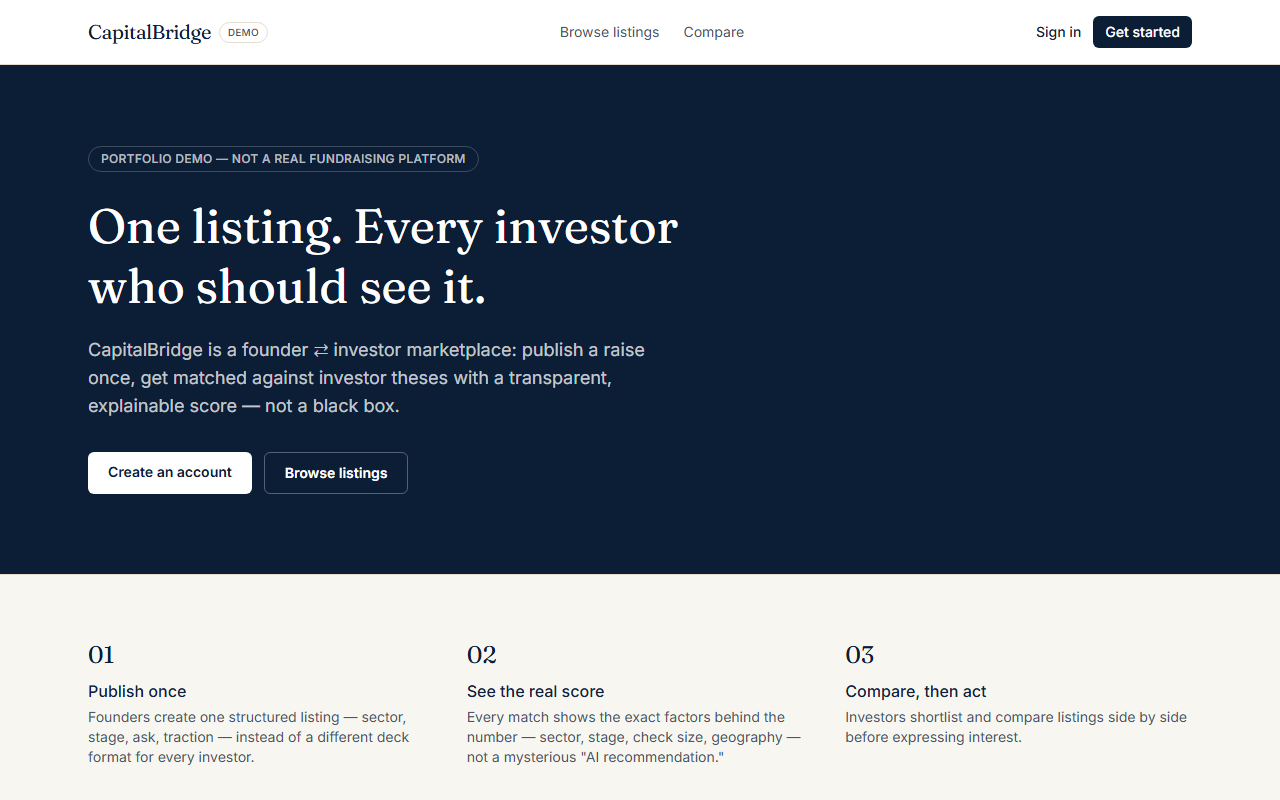
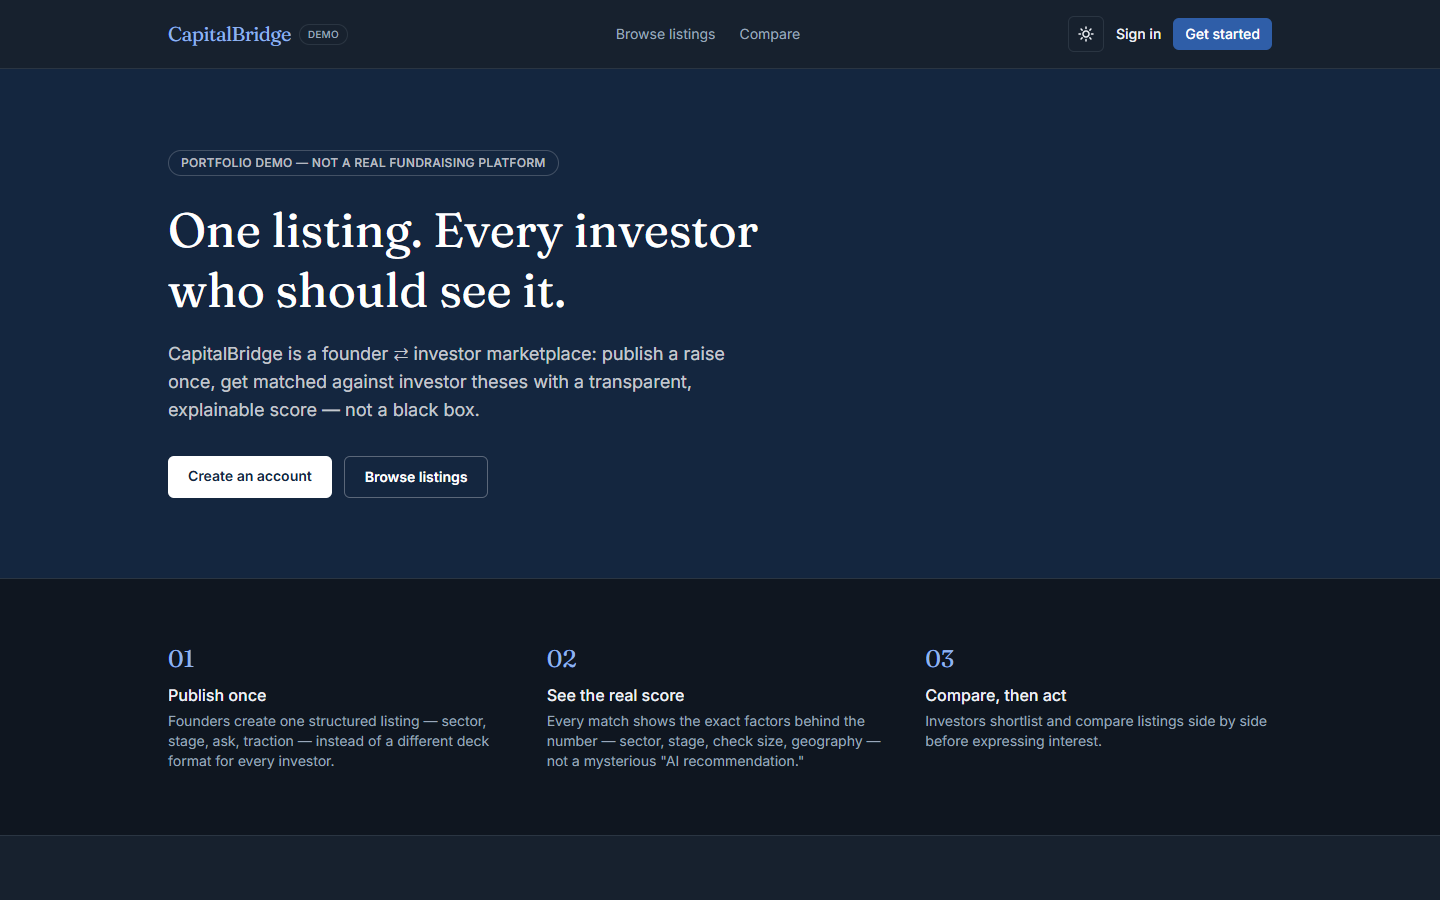
feat(ui): add a dark theme with a header toggle
Colors were already CSS variables in globals.css; add a [data-theme=dark]
override. An inline script in layout.tsx applies the stored choice (or the
OS preference) before first paint, so there is no light flash.

Navy was used both as text and as a button fill. In dark mode those need
different blues, so fills now use a new --color-navy-fill token and the
landing hero uses --color-hero. Inputs use --color-paper-raised instead of
hard-coded white, and the chart tooltip takes theme colors.

The toggle sits in the header on desktop and in the mobile menu on phones,
where the header row has no room for it. README screenshots are
recaptured in the dark theme.

diff --git a/src/app/signup/page.tsx b/src/app/signup/page.tsx
@@ -25,7 +25,7 @@ export default function SignupPage() {
               key={r}
               className={`cursor-pointer rounded-md border px-3 py-2 text-center text-sm font-medium transition ${
                 role === r
-                  ? "border-[var(--color-navy)] bg-[var(--color-navy)] text-white"
+                  ? "border-[var(--color-navy-fill)] bg-[var(--color-navy-fill)] text-white"
                   : "border-[var(--color-border)] text-[var(--color-ink)]"
               }`}
             >
@@ -50,7 +50,7 @@ export default function SignupPage() {
             id="name"
             name="name"
             required
-            className="mt-1 w-full rounded-md border border-[var(--color-border)] bg-white px-3 py-2 text-sm outline-none focus:border-[var(--color-navy)]"
+            className="mt-1 w-full rounded-md border border-[var(--color-border)] bg-[var(--color-paper-raised)] px-3 py-2 text-sm outline-none focus:border-[var(--color-navy)]"
           />
         </div>
         <div>
@@ -62,7 +62,7 @@ export default function SignupPage() {
             name="email"
             type="email"
             required
-            className="mt-1 w-full rounded-md border border-[var(--color-border)] bg-white px-3 py-2 text-sm outline-none focus:border-[var(--color-navy)]"
+            className="mt-1 w-full rounded-md border border-[var(--color-border)] bg-[var(--color-paper-raised)] px-3 py-2 text-sm outline-none focus:border-[var(--color-navy)]"
           />
         </div>
         <div>
@@ -75,7 +75,7 @@ export default function SignupPage() {
             type="password"
             required
             minLength={8}
-            className="mt-1 w-full rounded-md border border-[var(--color-border)] bg-white px-3 py-2 text-sm outline-none focus:border-[var(--color-navy)]"
+            className="mt-1 w-full rounded-md border border-[var(--color-border)] bg-[var(--color-paper-raised)] px-3 py-2 text-sm outline-none focus:border-[var(--color-navy)]"
           />
           <p className="mt-1 text-xs text-[var(--color-ink-muted)]">At least 8 characters.</p>
         </div>
@@ -83,7 +83,7 @@ export default function SignupPage() {
         <button
           type="submit"
           disabled={pending}
-          className="w-full rounded-md bg-[var(--color-navy)] px-4 py-2.5 text-sm font-semibold text-white transition hover:bg-[var(--color-navy-soft)] disabled:opacity-60"
+          className="w-full rounded-md bg-[var(--color-navy-fill)] px-4 py-2.5 text-sm font-semibold text-white transition hover:bg-[var(--color-navy-soft)] disabled:opacity-60"
         >
           {pending ? "Creating account…" : "Create account"}
         </button>

diff --git a/src/app/listings/page.tsx b/src/app/listings/page.tsx
@@ -80,9 +80,9 @@ export default async function ListingsPage({
           name="q"
           defaultValue={params.q ?? ""}
           placeholder="Search company or keyword"
-          className="rounded-md border border-[var(--color-border)] bg-white px-3 py-2 text-sm outline-none focus:border-[var(--color-navy)] sm:col-span-2"
+          className="rounded-md border border-[var(--color-border)] bg-[var(--color-paper-raised)] px-3 py-2 text-sm outline-none focus:border-[var(--color-navy)] sm:col-span-2"
         />
-        <select name="sector" defaultValue={params.sector ?? ""} className="rounded-md border border-[var(--color-border)] bg-white px-3 py-2 text-sm">
+        <select name="sector" defaultValue={params.sector ?? ""} className="rounded-md border border-[var(--color-border)] bg-[var(--color-paper-raised)] px-3 py-2 text-sm">
           <option value="">All sectors</option>
           {SECTOR_TIER1.map((s) => (
             <option key={s} value={s}>
@@ -90,7 +90,7 @@ export default async function ListingsPage({
             </option>
           ))}
         </select>
-        <select name="stage" defaultValue={params.stage ?? ""} className="rounded-md border border-[var(--color-border)] bg-white px-3 py-2 text-sm">
+        <select name="stage" defaultValue={params.stage ?? ""} className="rounded-md border border-[var(--color-border)] bg-[var(--color-paper-raised)] px-3 py-2 text-sm">
           <option value="">All stages</option>
           {STAGES.map((s) => (
             <option key={s.value} value={s.value}>
@@ -98,7 +98,7 @@ export default async function ListingsPage({
             </option>
           ))}
         </select>
-        <select name="geography" defaultValue={params.geography ?? ""} className="rounded-md border border-[var(--color-border)] bg-white px-3 py-2 text-sm">
+        <select name="geography" defaultValue={params.geography ?? ""} className="rounded-md border border-[var(--color-border)] bg-[var(--color-paper-raised)] px-3 py-2 text-sm">
           <option value="">All geographies</option>
           {GEOGRAPHIES.map((g) => (
             <option key={g} value={g}>
@@ -107,7 +107,7 @@ export default async function ListingsPage({
           ))}
         </select>
         <div className="flex gap-2 sm:col-span-5">
-          <button type="submit" className="rounded-md bg-[var(--color-navy)] px-4 py-2 text-sm font-semibold text-white hover:bg-[var(--color-navy-soft)]">
+          <button type="submit" className="rounded-md bg-[var(--color-navy-fill)] px-4 py-2 text-sm font-semibold text-white hover:bg-[var(--color-navy-soft)]">
             Apply filters
           </button>
           {activeFilterCount > 0 && (

diff --git a/src/components/theme-toggle.tsx b/src/components/theme-toggle.tsx
@@ -1,0 +1,58 @@
+"use client";
+
+import { useEffect, useState } from "react";
+import { THEME_STORAGE_KEY } from "@/lib/theme";
+
+type Theme = "light" | "dark";
+
+export function ThemeToggle() {
+  // null until mounted: the server can't know the theme, so render a
+  // neutral placeholder instead of guessing and causing a hydration mismatch.
+  const [theme, setTheme] = useState<Theme | null>(null);
+
+  useEffect(() => {
+    // Deliberately reading in an effect: the real theme was already applied
+    // to <html> by the inline script, before React hydrated.
+    // eslint-disable-next-line react-hooks/set-state-in-effect
+    setTheme(document.documentElement.dataset.theme === "dark" ? "dark" : "light");
+  }, []);
+
+  function toggle() {
+    const next: Theme = theme === "dark" ? "light" : "dark";
+    document.documentElement.dataset.theme = next;
+    try {
+      localStorage.setItem(THEME_STORAGE_KEY, next);
+    } catch {
+      // Storage can be unavailable (private mode); the toggle still works for this page view.
+    }
+    setTheme(next);
+  }
+
+  const label = theme === "dark" ? "Switch to light theme" : "Switch to dark theme";
+
+  return (
+    <button
+      type="button"
+      onClick={toggle}
+      aria-label={label}
+      title={label}
+      className="flex h-9 w-9 items-center justify-center rounded-md border border-[var(--color-border)] text-[var(--color-ink)] transition hover:border-[var(--color-navy)]"
+    >
+      {theme === "dark" ? (
+        <svg width="16" height="16" viewBox="0 0 16 16" fill="none" aria-hidden="true">
+          <circle cx="8" cy="8" r="3" stroke="currentColor" strokeWidth="1.5" />
+          <path
+            d="M8 1v1.5M8 13.5V15M1 8h1.5M13.5 8H15M3.05 3.05l1.06 1.06M11.89 11.89l1.06 1.06M3.05 12.95l1.06-1.06M11.89 4.11l1.06-1.06"
+            stroke="currentColor"
+            strokeWidth="1.5"
+            strokeLinecap="round"
+          />
+        </svg>
+      ) : (
+        <svg width="16" height="16" viewBox="0 0 16 16" fill="none" aria-hidden="true">
+          <path d="M13.5 9.5A5.5 5.5 0 0 1 6.5 2.5a5.5 5.5 0 1 0 7 7z" stroke="currentColor" strokeWidth="1.5" strokeLinejoin="round" />
+        </svg>
+      )}
+    </button>
+  );
+}

diff --git a/src/app/listings/new/page.tsx b/src/app/listings/new/page.tsx
@@ -6,7 +6,7 @@ import { SECTOR_TIER1, SECTOR_TIER2, STAGES, RAISE_TYPES, GEOGRAPHIES, type Sect
 import { FormError } from "@/components/ui";
 
 const inputClass =
-  "mt-1 w-full rounded-md border border-[var(--color-border)] bg-white px-3 py-2 text-sm outline-none focus:border-[var(--color-navy)]";
+  "mt-1 w-full rounded-md border border-[var(--color-border)] bg-[var(--color-paper-raised)] px-3 py-2 text-sm outline-none focus:border-[var(--color-navy)]";
 const labelClass = "text-sm font-medium text-[var(--color-ink)]";
 
 export default function NewListingPage() {
@@ -86,7 +86,7 @@ export default function NewListingPage() {
             {SECTOR_TIER2[tier1].map((tag) => (
               <label
                 key={tag}
-                className="flex cursor-pointer items-center gap-1.5 rounded-full border border-[var(--color-border)] px-3 py-1 text-xs has-[:checked]:border-[var(--color-navy)] has-[:checked]:bg-[var(--color-navy)] has-[:checked]:text-white"
+                className="flex cursor-pointer items-center gap-1.5 rounded-full border border-[var(--color-border)] px-3 py-1 text-xs has-[:checked]:border-[var(--color-navy-fill)] has-[:checked]:bg-[var(--color-navy-fill)] has-[:checked]:text-white"
               >
                 <input type="checkbox" name="sectorTier2" value={tag} className="sr-only" />
                 {tag}
@@ -162,7 +162,7 @@ export default function NewListingPage() {
           <button
             type="submit"
             onClick={() => setIntent("publish")}
-            className="rounded-md bg-[var(--color-navy)] px-4 py-2.5 text-sm font-semibold text-white hover:bg-[var(--color-navy-soft)]"
+            className="rounded-md bg-[var(--color-navy-fill)] px-4 py-2.5 text-sm font-semibold text-white hover:bg-[var(--color-navy-soft)]"
           >
             Publish listing
           </button>

diff --git a/src/app/login/page.tsx b/src/app/login/page.tsx
@@ -29,7 +29,7 @@ export default function LoginPage() {
               name="email"
               type="email"
               required
-              className="mt-1 w-full rounded-md border border-[var(--color-border)] bg-white px-3 py-2 text-sm outline-none focus:border-[var(--color-navy)]"
+              className="mt-1 w-full rounded-md border border-[var(--color-border)] bg-[var(--color-paper-raised)] px-3 py-2 text-sm outline-none focus:border-[var(--color-navy)]"
             />
           </div>
           <div>
@@ -41,13 +41,13 @@ export default function LoginPage() {
               name="password"
               type="password"
               required
-              className="mt-1 w-full rounded-md border border-[var(--color-border)] bg-white px-3 py-2 text-sm outline-none focus:border-[var(--color-navy)]"
+              className="mt-1 w-full rounded-md border border-[var(--color-border)] bg-[var(--color-paper-raised)] px-3 py-2 text-sm outline-none focus:border-[var(--color-navy)]"
             />
           </div>
           <button
             type="submit"
             disabled={pending}
-            className="w-full rounded-md bg-[var(--color-navy)] px-4 py-2.5 text-sm font-semibold text-white transition hover:bg-[var(--color-navy-soft)] disabled:opacity-60"
+            className="w-full rounded-md bg-[var(--color-navy-fill)] px-4 py-2.5 text-sm font-semibold text-white transition hover:bg-[var(--color-navy-soft)] disabled:opacity-60"
           >
             {pending ? "Signing in…" : "Sign in"}
           </button>

diff --git a/src/components/investor-profile-form.tsx b/src/components/investor-profile-form.tsx
@@ -15,9 +15,9 @@ export type InvestorProfileFormValues = {
 };
 
 const chipClass =
-  "flex cursor-pointer items-center gap-1.5 rounded-full border border-[var(--color-border)] px-3 py-1 text-xs has-[:checked]:border-[var(--color-navy)] has-[:checked]:bg-[var(--color-navy)] has-[:checked]:text-white";
+  "flex cursor-pointer items-center gap-1.5 rounded-full border border-[var(--color-border)] px-3 py-1 text-xs has-[:checked]:border-[var(--color-navy-fill)] has-[:checked]:bg-[var(--color-navy-fill)] has-[:checked]:text-white";
 const inputClass =
-  "mt-1 w-full rounded-md border border-[var(--color-border)] bg-white px-3 py-2 text-sm outline-none focus:border-[var(--color-navy)]";
+  "mt-1 w-full rounded-md border border-[var(--color-border)] bg-[var(--color-paper-raised)] px-3 py-2 text-sm outline-none focus:border-[var(--color-navy)]";
 
 export function InvestorProfileForm({ initial, welcome }: { initial: InvestorProfileFormValues; welcome?: boolean }) {
   const [state, formAction] = useActionState(updateInvestorProfileAction, undefined);
@@ -108,7 +108,7 @@ export function InvestorProfileForm({ initial, welcome }: { initial: InvestorPro
         </div>
       </div>
 
-      <button type="submit" className="rounded-md bg-[var(--color-navy)] px-4 py-2.5 text-sm font-semibold text-white hover:bg-[var(--color-navy-soft)]">
+      <button type="submit" className="rounded-md bg-[var(--color-navy-fill)] px-4 py-2.5 text-sm font-semibold text-white hover:bg-[var(--color-navy-soft)]">
         Save profile
       </button>
     </form>

diff --git a/src/app/globals.css b/src/app/globals.css
@@ -25,6 +25,36 @@
   --color-rose: #9c3b3b;
   --color-rose-soft: #f4e3e1;
   --color-slate-soft: #eceef2;
+  /* Navy is both an ink and a fill. In light mode they're the same color;
+     in dark mode text needs a light blue but filled buttons need a blue
+     that still carries white text, so fills get their own token. */
+  --color-navy-fill: #0b1e36;
+  --color-hero: #0b1e36;
+}
+
+/*
+  Dark theme: same identity on a deep blue-black "night paper". Set by the
+  inline script in layout.tsx (stored choice, else the OS preference) before
+  first paint, so there's no light flash.
+*/
+:root[data-theme="dark"] {
+  color-scheme: dark;
+  --color-paper: #0f1620;
+  --color-paper-raised: #17212e;
+  --color-ink: #eef1f6;
+  --color-ink-muted: #9aa7ba;
+  --color-navy: #8fb3ee;
+  --color-navy-soft: #3d6fbf;
+  --color-navy-fill: #2f5ea8;
+  --color-hero: #14263f;
+  --color-border: #2a3542;
+  --color-emerald: #4fcf9e;
+  --color-emerald-soft: #163229;
+  --color-amber: #e0ab52;
+  --color-amber-soft: #33280f;
+  --color-rose: #e08585;
+  --color-rose-soft: #3a2020;
+  --color-slate-soft: #202a37;
 }
 
 @theme inline {
@@ -42,6 +72,8 @@
   --color-rose: var(--color-rose);
   --color-rose-soft: var(--color-rose-soft);
   --color-slate-soft: var(--color-slate-soft);
+  --color-navy-fill: var(--color-navy-fill);
+  --color-hero: var(--color-hero);
   --font-display: var(--font-fraunces);
   --font-sans: var(--font-inter);
 }

diff --git a/src/components/site-header.tsx b/src/components/site-header.tsx
@@ -2,6 +2,7 @@ import Link from "next/link";
 import { getSession } from "@/lib/auth";
 import { logoutAction } from "@/lib/actions/auth";
 import { MobileNav } from "@/components/mobile-nav";
+import { ThemeToggle } from "@/components/theme-toggle";
 
 const NAV_LINKS = [{ href: "/listings", label: "Browse listings" }, { href: "/compare", label: "Compare" }];
 
@@ -44,6 +45,10 @@ export async function SiteHeader() {
         </nav>
 
         <div className="flex items-center gap-3 text-sm">
+          {/* On phones the header row is already full; the toggle lives in the mobile menu there. */}
+          <div className="hidden md:block">
+            <ThemeToggle />
+          </div>
           {session ? (
             <>
               <span className="hidden text-[var(--color-ink-muted)] sm:inline">
@@ -65,7 +70,7 @@ export async function SiteHeader() {
               </Link>
               <Link
                 href="/signup"
-                className="rounded-md bg-[var(--color-navy)] px-3 py-1.5 font-medium text-white transition hover:bg-[var(--color-navy-soft)]"
+                className="rounded-md bg-[var(--color-navy-fill)] px-3 py-1.5 font-medium text-white transition hover:bg-[var(--color-navy-soft)]"
               >
                 Get started
               </Link>

diff --git a/src/app/dashboard/founder/page.tsx b/src/app/dashboard/founder/page.tsx
@@ -48,7 +48,7 @@ export default async function FounderDashboardPage() {
             Views and interest below are real counts from this database, not seeded numbers.
           </p>
         </div>
-        <Link href="/listings/new" className="rounded-md bg-[var(--color-navy)] px-4 py-2 text-sm font-semibold text-white hover:bg-[var(--color-navy-soft)]">
+        <Link href="/listings/new" className="rounded-md bg-[var(--color-navy-fill)] px-4 py-2 text-sm font-semibold text-white hover:bg-[var(--color-navy-soft)]">
           New listing
         </Link>
       </div>
@@ -76,7 +76,7 @@ export default async function FounderDashboardPage() {
               title="No listings yet"
               description="Publish your first raise to start appearing in investor searches and match feeds."
               action={
-                <Link href="/listings/new" className="rounded-md bg-[var(--color-navy)] px-4 py-2 text-sm font-semibold text-white">
+                <Link href="/listings/new" className="rounded-md bg-[var(--color-navy-fill)] px-4 py-2 text-sm font-semibold text-white">
                   Create a listing
                 </Link>
               }

diff --git a/src/app/layout.tsx b/src/app/layout.tsx
@@ -2,6 +2,7 @@ import type { Metadata } from "next";
 import { Fraunces, Inter } from "next/font/google";
 import { SiteHeader } from "@/components/site-header";
 import { SiteFooter } from "@/components/site-footer";
+import { themeInitScript } from "@/lib/theme";
 import "./globals.css";
 
 const fraunces = Fraunces({
@@ -23,7 +24,12 @@ export const metadata: Metadata = {
 
 export default function RootLayout({ children }: LayoutProps<"/">) {
   return (
-    <html lang="en" className={`${fraunces.variable} ${inter.variable} h-full antialiased`}>
+    // suppressHydrationWarning: the inline theme script sets data-theme on
+    // <html> before React hydrates, which React would otherwise flag.
+    <html lang="en" className={`${fraunces.variable} ${inter.variable} h-full antialiased`} suppressHydrationWarning>
+      <head>
+        <script dangerouslySetInnerHTML={{ __html: themeInitScript }} />
+      </head>
       <body className="flex min-h-full flex-col bg-[var(--color-paper)] text-[var(--color-ink)]">
         <SiteHeader />
         <main className="flex-1">{children}</main>

diff --git a/src/app/page.tsx b/src/app/page.tsx
@@ -12,7 +12,7 @@ export default async function HomePage() {
 
   return (
     <div>
-      <section className="border-b border-[var(--color-border)] bg-[var(--color-navy)] text-white">
+      <section className="border-b border-[var(--color-border)] bg-[var(--color-hero)] text-white">
         <div className="mx-auto max-w-6xl px-6 py-20">
           <span className="inline-flex items-center rounded-full border border-white/20 px-3 py-1 text-xs font-medium uppercase tracking-wide text-white/70">
             Portfolio demo — not a real fundraising platform
@@ -27,7 +27,7 @@ export default async function HomePage() {
           <div className="mt-8 flex flex-wrap gap-3">
             <Link
               href="/signup"
-              className="rounded-md bg-white px-5 py-2.5 text-sm font-semibold text-[var(--color-navy)] transition hover:bg-white/90"
+              className="rounded-md bg-white px-5 py-2.5 text-sm font-semibold text-[var(--color-hero)] transition hover:bg-white/90"
             >
               Create an account
             </Link>

diff --git a/src/app/compare/page.tsx b/src/app/compare/page.tsx
@@ -46,7 +46,7 @@ export default async function ComparePage({
             key={i}
             name={`slot${i}`}
             defaultValue={params[`slot${i}`] ?? ""}
-            className="rounded-md border border-[var(--color-border)] bg-white px-3 py-2 text-sm"
+            className="rounded-md border border-[var(--color-border)] bg-[var(--color-paper-raised)] px-3 py-2 text-sm"
           >
             <option value="">Slot {i + 1}: choose a listing</option>
             {allListings.map((l) => (
@@ -56,7 +56,7 @@ export default async function ComparePage({
             ))}
           </select>
         ))}
-        <button type="submit" className="rounded-md bg-[var(--color-navy)] px-4 py-2 text-sm font-semibold text-white sm:col-span-3 sm:w-fit">
+        <button type="submit" className="rounded-md bg-[var(--color-navy-fill)] px-4 py-2 text-sm font-semibold text-white sm:col-span-3 sm:w-fit">
           Compare
         </button>
       </form>
